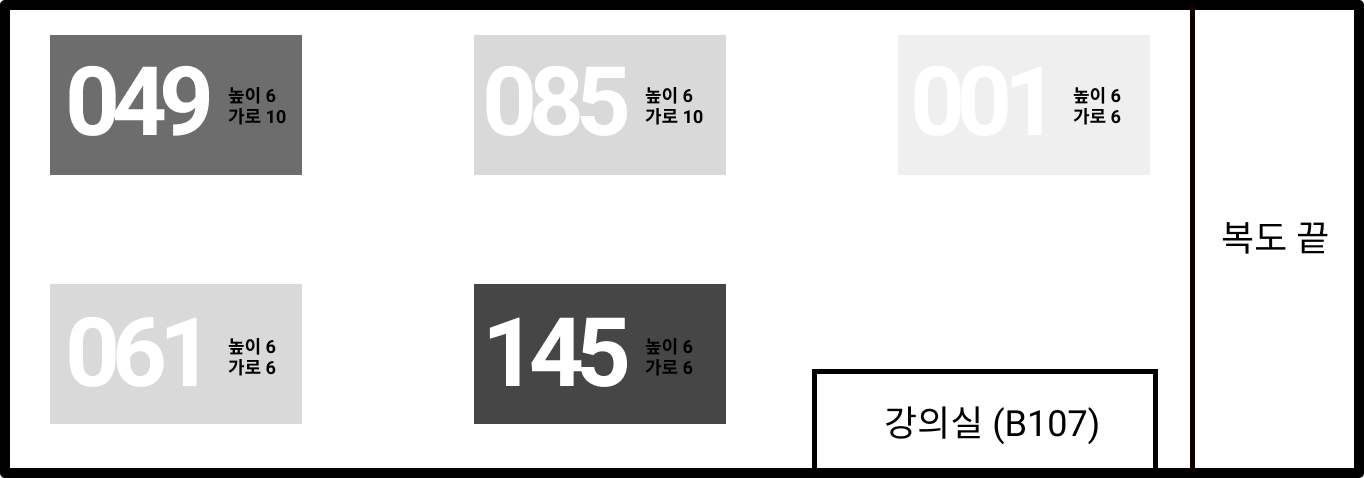
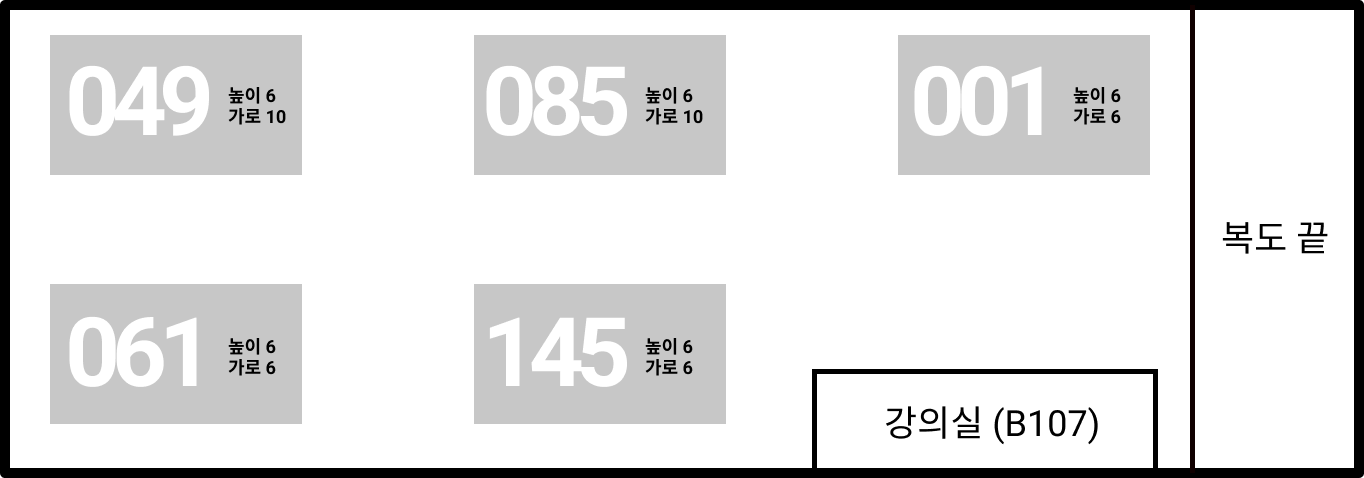
UI 변경

Changed region(s): [[0.6466, 0.0586, 0.8622, 0.3808], [0.3387, 0.5858, 0.5543, 0.9079], [0.0308, 0.0586, 0.2463, 0.3808]]

diff --git a/src/Pages/MainPage.js b/src/Pages/MainPage.js
@@ -10,6 +10,7 @@ import {
   TabPanel,
 } from '@material-ui/core';
 import Cabinet from './Cabinet';
+import Logo from '../image/Logo.png';
 import { Default, Mobile } from '../MediaQuery';
 import test from '../image/Test.png';
 
@@ -18,6 +19,7 @@ const Container = styled.div`
   justify-contents: center;
   align-items: center;
   flex-direction: column;
+  margin-top: 9vh;
   height: 80%;
   width: 100%;
 `;
@@ -27,12 +29,22 @@ const styles = {
     height: '9vh',
   },
 
-  tab: {
+  tab_pc: {
     opacity: '0.5',
     fontSize: '2vw',
     letterSpacing: '0.0001px',
     borderRadius: '10px',
     width: '15vw',
+  },
+
+  tab_mobile: {
+    opacity: '0.5',
+    fontSize: '5vw',
+    margin: '0',
+    letterSpacing: '0.0001px',
+    justifyContent: 'center',
+    borderRadius: '10px',
+    width: 'auto',
   },
 
   slide: {
@@ -91,16 +103,30 @@ const MainPage = () => {
     setIndex(newValue);
   };
 
-  const LoadTabs = () => {
+  const LoadTabsPc = () => {
     return data.map((i) => {
-      return <Tab label={i.title} style={styles.tab} />;
+      return <Tab label={i.title} style={styles.tab_pc} />;
     });
   };
 
-  const showTabs = () => {
+  const showTabsPc = () => {
     return (
       <Tabs value={index} fullWidth onChange={handleChange} style={styles.tabs}>
-        {LoadTabs()}
+        {LoadTabsPc()}
+      </Tabs>
+    );
+  };
+
+  const LoadTabsMobile = () => {
+    return data.map((i) => {
+      return <Tab label={i.title} style={styles.tab_mobile} />;
+    });
+  };
+
+  const showTabsMobile = () => {
+    return (
+      <Tabs value={index} fullWidth onChange={handleChange} style={styles.tabs}>
+        {LoadTabsMobile()}
       </Tabs>
     );
   };
@@ -121,10 +147,27 @@ const MainPage = () => {
 
   return (
     <div style={{ width: '100%', height: '100%' }}>
+      <header>
+        <div
+          style={{
+            backgroundColor: 'black',
+            position: 'absolute',
+            top: 0,
+            left: 0,
+            right: 0,
+            height: '8vh',
+          }}
+        >
+          <Button onClick={() => visibleMap(true)}>
+            <img
+              src={Logo}
+              alt="logo"
+              style={{ width: '2.5vw', backgroundColor: 'white' }}
+            />
+          </Button>
+        </div>
+      </header>
       <Container>
-        <header>
-          <Button onClick={() => visibleMap(true)}>MAP 버튼</Button>
-        </header>
         <SwipeableDrawer
           anchor="top"
           open={_map}
@@ -144,13 +187,13 @@ const MainPage = () => {
         </SwipeableDrawer>
         <Default>
           <div style={{ width: '80%' }}>
-            {showTabs()}
+            {showTabsPc()}
             {showContents()}
           </div>
         </Default>
         <Mobile>
           <div style={{ width: '100vw' }}>
-            {showTabs()}
+            {showTabsMobile()}
             {showContents()}
           </div>
         </Mobile>

diff --git a/src/Pages/Cabinet.js b/src/Pages/Cabinet.js
@@ -15,22 +15,19 @@ import {
 import { Default } from '../MediaQuery';
 
 const Content = styled.div`
-  position: absolute;
-  flex: 10;
-  flex-direction: row;
-  height: 50vh;
-  width: 100%;
+  padding: 0 1vw;
 `;
 
 const useStyles = makeStyles((theme) => ({
   root: {
-    flexGrow: 1,
+    width: 'auto',
+    overflow: 'hidden',
   },
   button: {
-    padding: theme.spacing(1),
     border: '3px solid #00d145',
-    textAlign: 'center',
+    padding: theme.spacing(1),
     width: '6vw',
+    textAlign: 'center',
     color: 'gray',
     '&:hover': {
       backgroundColor: '#00d145',
@@ -38,8 +35,8 @@ const useStyles = makeStyles((theme) => ({
     },
   },
   button2: {
-    padding: theme.spacing(1),
     textAlign: 'center',
+    padding: theme.spacing(1),
     width: '6vw',
     color: 'white',
     backgroundColor: 'gray',
@@ -48,8 +45,8 @@ const useStyles = makeStyles((theme) => ({
     },
   },
   button3: {
-    padding: theme.spacing(1),
     textAlign: 'center',
+    padding: theme.spacing(1),
     width: '6vw',
     color: 'white',
     backgroundColor: 'lightgray',
@@ -70,7 +67,7 @@ const Cabinet = ({ data }) => {
     return column.map((v, index) => {
       if (v === 0) {
         return (
-          <Grid item xs>
+          <Grid item xs={1}>
             <Button className={classes.button}>
               {index + num + i * height}
             </Button>
@@ -79,7 +76,7 @@ const Cabinet = ({ data }) => {
       }
       if (v === 1) {
         return (
-          <Grid item xs>
+          <Grid item xs={1}>
             <Button className={classes.button2}>
               {index + num + i * height}
             </Button>
@@ -87,7 +84,7 @@ const Cabinet = ({ data }) => {
         );
       }
       return (
-        <Grid item xs>
+        <Grid item xs={1}>
           <Button className={classes.button3} disabled>
             수리중
           </Button>
@@ -98,7 +95,7 @@ const Cabinet = ({ data }) => {
 
   const showGridColumn = () => {
     return row.map((v, i) => (
-      <Grid container spacing={2}>
+      <Grid container spacing={1}>
         {loadGridRow(i)}
       </Grid>
     ));
@@ -109,14 +106,8 @@ const Cabinet = ({ data }) => {
   };
 
   return (
-    <div
-      style={{
-        width: '100%',
-        height: '80vh',
-        overflow: 'hidden',
-      }}
-    >
-      <p style={{ fontSize: '4rem' }}>{title}</p>
+    <div>
+      <p style={{ fontSize: '3vw' }}>{title}</p>
       <Content>
         <div className={classes.root}>{showGridRow()}</div>
       </Content>

diff --git a/src/Pages/SignUp.js b/src/Pages/SignUp.js
@@ -93,13 +93,13 @@ const SignUp = () => {
           <img
             src={Logo}
             alt="logo"
-            width="90vw"
-            style={{ margin: '3vh 0 0 ' }}
+            width="70vw"
+            style={{ margin: '1vh 0 0 ' }}
           />
 
           <p
             style={{
-              fontSize: '1vw',
+              fontSize: '0.8vw',
               fontWeight: 'bold',
               letterSpacing: '0.5vw',
               borderBottom: '0.1vw solid black',
@@ -110,7 +110,7 @@ const SignUp = () => {
           </p>
           <p
             style={{
-              fontSize: '0.8vw',
+              fontSize: '0.6vw',
               fontWeight: 'bolder',
               letterSpacing: '0.4vw',
               margin: '0.15rem 0 3rem',
@@ -204,7 +204,7 @@ const SignUp = () => {
             src={Logo}
             alt="logo"
             width="60vw"
-            style={{ margin: '8vh 0 0 ' }}
+            style={{ margin: '3vh 0 0 ' }}
           />
           <p
             style={{
@@ -252,19 +252,19 @@ const SignUp = () => {
               id="id"
               label="ID"
               variant="outlined"
-              style={{ width: '80vw', margin: '1.5vh 0.1vw' }}
+              style={{ width: '80vw', margin: '1vh 0.1vw' }}
             />
             <TextField
               id="password"
               label="Password"
               variant="outlined"
-              style={{ width: '80vw', margin: '1.5vh 0.1vw' }}
+              style={{ width: '80vw', margin: '1vh 0.1vw' }}
             />
             <TextField
               id="studentID"
               label="학번"
               variant="outlined"
-              style={{ width: '80vw', margin: '1.5vh 0.1vw' }}
+              style={{ width: '80vw', margin: '1vh 0.1vw' }}
             />
             <Button
               variant="contained"
